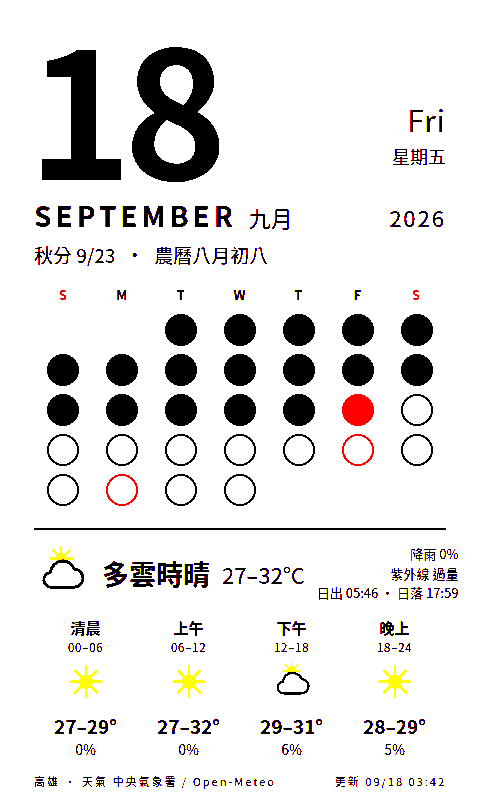
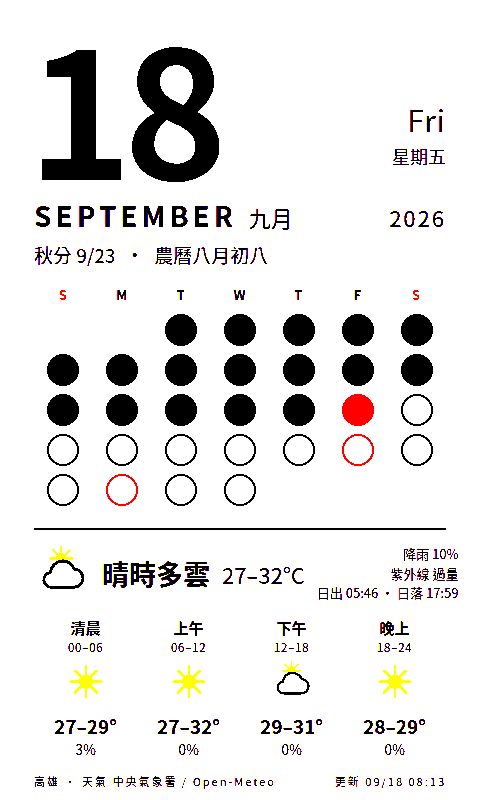
deploy: cf7d1051eb6821bc691ba0ade4beb12cdf9fe0ef

Changed region(s): [[0.2188, 0.6875, 0.4375, 0.75], [0.8438, 0.6875, 0.9062, 0.7188]]

diff --git a/calendar.html b/calendar.html
@@ -54,9 +54,9 @@
   <div class="today"><span class="lunar">秋分 9/23</span><span>·</span><span class="lunar">農曆八月初八</span></div>
   <div class="grid"><div class="h we">S</div><div class="h">M</div><div class="h">T</div><div class="h">W</div><div class="h">T</div><div class="h">F</div><div class="h we">S</div><div class="dot empty"></div><div class="dot empty"></div><div class="dot past" title="1"></div><div class="dot past" title="2"></div><div class="dot past" title="3"></div><div class="dot past" title="4"></div><div class="dot past" title="5"></div><div class="dot past" title="6"></div><div class="dot past" title="7"></div><div class="dot past" title="8"></div><div class="dot past" title="9"></div><div class="dot past" title="10"></div><div class="dot past" title="11"></div><div class="dot past" title="12"></div><div class="dot past" title="13"></div><div class="dot past" title="14"></div><div class="dot past" title="15"></div><div class="dot past" title="16"></div><div class="dot past" title="17"></div><div class="dot now" title="18"></div><div class="dot future" title="19"></div><div class="dot future" title="20"></div><div class="dot future" title="21"></div><div class="dot future" title="22"></div><div class="dot future" title="23"></div><div class="dot future" title="24"></div><div class="dot future hol" title="25"></div><div class="dot future" title="26"></div><div class="dot future" title="27"></div><div class="dot future hol" title="28"></div><div class="dot future" title="29"></div><div class="dot future" title="30"></div></div>
   <div class="wx"><div class="line">
-    <div class="wxhead"><svg viewBox="0 0 64 68" xmlns="http://www.w3.org/2000/svg"><g transform="translate(12 -4) scale(.6)"><circle cx="32" cy="32" r="11" fill="#f5c400"/><g stroke="#f5c400" stroke-width="4" stroke-linecap="round"><line x1="32" y1="32" x2="32" y2="8" transform="rotate(0 32 32)"/><line x1="32" y1="32" x2="32" y2="8" transform="rotate(45 32 32)"/><line x1="32" y1="32" x2="32" y2="8" transform="rotate(90 32 32)"/><line x1="32" y1="32" x2="32" y2="8" transform="rotate(135 32 32)"/><line x1="32" y1="32" x2="32" y2="8" transform="rotate(180 32 32)"/><line x1="32" y1="32" x2="32" y2="8" transform="rotate(225 32 32)"/><line x1="32" y1="32" x2="32" y2="8" transform="rotate(270 32 32)"/><line x1="32" y1="32" x2="32" y2="8" transform="rotate(315 32 32)"/></g></g><path d="M20 50h26a11 11 0 0 0 1-22 15 15 0 0 0-29 4 9 9 0 0 0 2 18z" fill="#fff" stroke="#000" stroke-width="3.5" stroke-linejoin="round"/></svg><span class="desc">多雲時晴</span><span class="temp">27–32°C</span>
-      <div class="meta">降雨 0%<br>紫外線 過量<br>日出 05:46 · 日落 17:59</div></div>
-    <div class="slots"><div class="slot"><div class="n">清晨</div><div class="hrs">00–06</div><svg viewBox="0 0 64 68" xmlns="http://www.w3.org/2000/svg"><circle cx="32" cy="32" r="11" fill="#f5c400"/><g stroke="#f5c400" stroke-width="4" stroke-linecap="round"><line x1="32" y1="32" x2="32" y2="8" transform="rotate(0 32 32)"/><line x1="32" y1="32" x2="32" y2="8" transform="rotate(45 32 32)"/><line x1="32" y1="32" x2="32" y2="8" transform="rotate(90 32 32)"/><line x1="32" y1="32" x2="32" y2="8" transform="rotate(135 32 32)"/><line x1="32" y1="32" x2="32" y2="8" transform="rotate(180 32 32)"/><line x1="32" y1="32" x2="32" y2="8" transform="rotate(225 32 32)"/><line x1="32" y1="32" x2="32" y2="8" transform="rotate(270 32 32)"/><line x1="32" y1="32" x2="32" y2="8" transform="rotate(315 32 32)"/></g></svg><div class="t">27–29°</div><div class="p dry">0%</div></div><div class="slot"><div class="n">上午</div><div class="hrs">06–12</div><svg viewBox="0 0 64 68" xmlns="http://www.w3.org/2000/svg"><circle cx="32" cy="32" r="11" fill="#f5c400"/><g stroke="#f5c400" stroke-width="4" stroke-linecap="round"><line x1="32" y1="32" x2="32" y2="8" transform="rotate(0 32 32)"/><line x1="32" y1="32" x2="32" y2="8" transform="rotate(45 32 32)"/><line x1="32" y1="32" x2="32" y2="8" transform="rotate(90 32 32)"/><line x1="32" y1="32" x2="32" y2="8" transform="rotate(135 32 32)"/><line x1="32" y1="32" x2="32" y2="8" transform="rotate(180 32 32)"/><line x1="32" y1="32" x2="32" y2="8" transform="rotate(225 32 32)"/><line x1="32" y1="32" x2="32" y2="8" transform="rotate(270 32 32)"/><line x1="32" y1="32" x2="32" y2="8" transform="rotate(315 32 32)"/></g></svg><div class="t">27–32°</div><div class="p dry">0%</div></div><div class="slot"><div class="n">下午</div><div class="hrs">12–18</div><svg viewBox="0 0 64 68" xmlns="http://www.w3.org/2000/svg"><g transform="translate(12 -4) scale(.6)"><circle cx="32" cy="32" r="11" fill="#f5c400"/><g stroke="#f5c400" stroke-width="4" stroke-linecap="round"><line x1="32" y1="32" x2="32" y2="8" transform="rotate(0 32 32)"/><line x1="32" y1="32" x2="32" y2="8" transform="rotate(45 32 32)"/><line x1="32" y1="32" x2="32" y2="8" transform="rotate(90 32 32)"/><line x1="32" y1="32" x2="32" y2="8" transform="rotate(135 32 32)"/><line x1="32" y1="32" x2="32" y2="8" transform="rotate(180 32 32)"/><line x1="32" y1="32" x2="32" y2="8" transform="rotate(225 32 32)"/><line x1="32" y1="32" x2="32" y2="8" transform="rotate(270 32 32)"/><line x1="32" y1="32" x2="32" y2="8" transform="rotate(315 32 32)"/></g></g><path d="M20 50h26a11 11 0 0 0 1-22 15 15 0 0 0-29 4 9 9 0 0 0 2 18z" fill="#fff" stroke="#000" stroke-width="3.5" stroke-linejoin="round"/></svg><div class="t">29–31°</div><div class="p dry">6%</div></div><div class="slot"><div class="n">晚上</div><div class="hrs">18–24</div><svg viewBox="0 0 64 68" xmlns="http://www.w3.org/2000/svg"><circle cx="32" cy="32" r="11" fill="#f5c400"/><g stroke="#f5c400" stroke-width="4" stroke-linecap="round"><line x1="32" y1="32" x2="32" y2="8" transform="rotate(0 32 32)"/><line x1="32" y1="32" x2="32" y2="8" transform="rotate(45 32 32)"/><line x1="32" y1="32" x2="32" y2="8" transform="rotate(90 32 32)"/><line x1="32" y1="32" x2="32" y2="8" transform="rotate(135 32 32)"/><line x1="32" y1="32" x2="32" y2="8" transform="rotate(180 32 32)"/><line x1="32" y1="32" x2="32" y2="8" transform="rotate(225 32 32)"/><line x1="32" y1="32" x2="32" y2="8" transform="rotate(270 32 32)"/><line x1="32" y1="32" x2="32" y2="8" transform="rotate(315 32 32)"/></g></svg><div class="t">28–29°</div><div class="p dry">5%</div></div></div>
+    <div class="wxhead"><svg viewBox="0 0 64 68" xmlns="http://www.w3.org/2000/svg"><g transform="translate(12 -4) scale(.6)"><circle cx="32" cy="32" r="11" fill="#f5c400"/><g stroke="#f5c400" stroke-width="4" stroke-linecap="round"><line x1="32" y1="32" x2="32" y2="8" transform="rotate(0 32 32)"/><line x1="32" y1="32" x2="32" y2="8" transform="rotate(45 32 32)"/><line x1="32" y1="32" x2="32" y2="8" transform="rotate(90 32 32)"/><line x1="32" y1="32" x2="32" y2="8" transform="rotate(135 32 32)"/><line x1="32" y1="32" x2="32" y2="8" transform="rotate(180 32 32)"/><line x1="32" y1="32" x2="32" y2="8" transform="rotate(225 32 32)"/><line x1="32" y1="32" x2="32" y2="8" transform="rotate(270 32 32)"/><line x1="32" y1="32" x2="32" y2="8" transform="rotate(315 32 32)"/></g></g><path d="M20 50h26a11 11 0 0 0 1-22 15 15 0 0 0-29 4 9 9 0 0 0 2 18z" fill="#fff" stroke="#000" stroke-width="3.5" stroke-linejoin="round"/></svg><span class="desc">晴時多雲</span><span class="temp">27–32°C</span>
+      <div class="meta">降雨 10%<br>紫外線 過量<br>日出 05:46 · 日落 17:59</div></div>
+    <div class="slots"><div class="slot"><div class="n">清晨</div><div class="hrs">00–06</div><svg viewBox="0 0 64 68" xmlns="http://www.w3.org/2000/svg"><circle cx="32" cy="32" r="11" fill="#f5c400"/><g stroke="#f5c400" stroke-width="4" stroke-linecap="round"><line x1="32" y1="32" x2="32" y2="8" transform="rotate(0 32 32)"/><line x1="32" y1="32" x2="32" y2="8" transform="rotate(45 32 32)"/><line x1="32" y1="32" x2="32" y2="8" transform="rotate(90 32 32)"/><line x1="32" y1="32" x2="32" y2="8" transform="rotate(135 32 32)"/><line x1="32" y1="32" x2="32" y2="8" transform="rotate(180 32 32)"/><line x1="32" y1="32" x2="32" y2="8" transform="rotate(225 32 32)"/><line x1="32" y1="32" x2="32" y2="8" transform="rotate(270 32 32)"/><line x1="32" y1="32" x2="32" y2="8" transform="rotate(315 32 32)"/></g></svg><div class="t">27–29°</div><div class="p dry">3%</div></div><div class="slot"><div class="n">上午</div><div class="hrs">06–12</div><svg viewBox="0 0 64 68" xmlns="http://www.w3.org/2000/svg"><circle cx="32" cy="32" r="11" fill="#f5c400"/><g stroke="#f5c400" stroke-width="4" stroke-linecap="round"><line x1="32" y1="32" x2="32" y2="8" transform="rotate(0 32 32)"/><line x1="32" y1="32" x2="32" y2="8" transform="rotate(45 32 32)"/><line x1="32" y1="32" x2="32" y2="8" transform="rotate(90 32 32)"/><line x1="32" y1="32" x2="32" y2="8" transform="rotate(135 32 32)"/><line x1="32" y1="32" x2="32" y2="8" transform="rotate(180 32 32)"/><line x1="32" y1="32" x2="32" y2="8" transform="rotate(225 32 32)"/><line x1="32" y1="32" x2="32" y2="8" transform="rotate(270 32 32)"/><line x1="32" y1="32" x2="32" y2="8" transform="rotate(315 32 32)"/></g></svg><div class="t">27–32°</div><div class="p dry">0%</div></div><div class="slot"><div class="n">下午</div><div class="hrs">12–18</div><svg viewBox="0 0 64 68" xmlns="http://www.w3.org/2000/svg"><g transform="translate(12 -4) scale(.6)"><circle cx="32" cy="32" r="11" fill="#f5c400"/><g stroke="#f5c400" stroke-width="4" stroke-linecap="round"><line x1="32" y1="32" x2="32" y2="8" transform="rotate(0 32 32)"/><line x1="32" y1="32" x2="32" y2="8" transform="rotate(45 32 32)"/><line x1="32" y1="32" x2="32" y2="8" transform="rotate(90 32 32)"/><line x1="32" y1="32" x2="32" y2="8" transform="rotate(135 32 32)"/><line x1="32" y1="32" x2="32" y2="8" transform="rotate(180 32 32)"/><line x1="32" y1="32" x2="32" y2="8" transform="rotate(225 32 32)"/><line x1="32" y1="32" x2="32" y2="8" transform="rotate(270 32 32)"/><line x1="32" y1="32" x2="32" y2="8" transform="rotate(315 32 32)"/></g></g><path d="M20 50h26a11 11 0 0 0 1-22 15 15 0 0 0-29 4 9 9 0 0 0 2 18z" fill="#fff" stroke="#000" stroke-width="3.5" stroke-linejoin="round"/></svg><div class="t">29–31°</div><div class="p dry">0%</div></div><div class="slot"><div class="n">晚上</div><div class="hrs">18–24</div><svg viewBox="0 0 64 68" xmlns="http://www.w3.org/2000/svg"><circle cx="32" cy="32" r="11" fill="#f5c400"/><g stroke="#f5c400" stroke-width="4" stroke-linecap="round"><line x1="32" y1="32" x2="32" y2="8" transform="rotate(0 32 32)"/><line x1="32" y1="32" x2="32" y2="8" transform="rotate(45 32 32)"/><line x1="32" y1="32" x2="32" y2="8" transform="rotate(90 32 32)"/><line x1="32" y1="32" x2="32" y2="8" transform="rotate(135 32 32)"/><line x1="32" y1="32" x2="32" y2="8" transform="rotate(180 32 32)"/><line x1="32" y1="32" x2="32" y2="8" transform="rotate(225 32 32)"/><line x1="32" y1="32" x2="32" y2="8" transform="rotate(270 32 32)"/><line x1="32" y1="32" x2="32" y2="8" transform="rotate(315 32 32)"/></g></svg><div class="t">28–29°</div><div class="p dry">0%</div></div></div>
   </div></div>
-  <div class="foot"><span>高雄 · 天氣 中央氣象署 / Open-Meteo</span><span>更新 09/18 03:42</span></div>
+  <div class="foot"><span>高雄 · 天氣 中央氣象署 / Open-Meteo</span><span>更新 09/18 08:13</span></div>
 </div></body></html>
